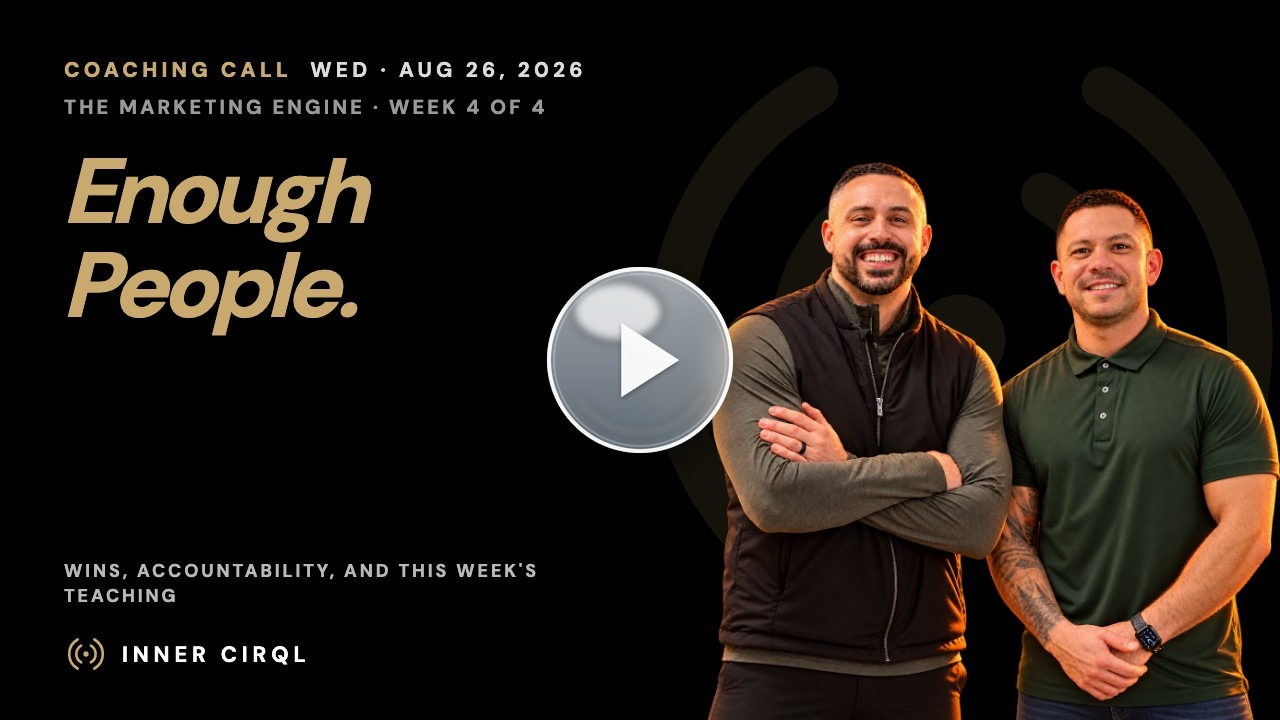
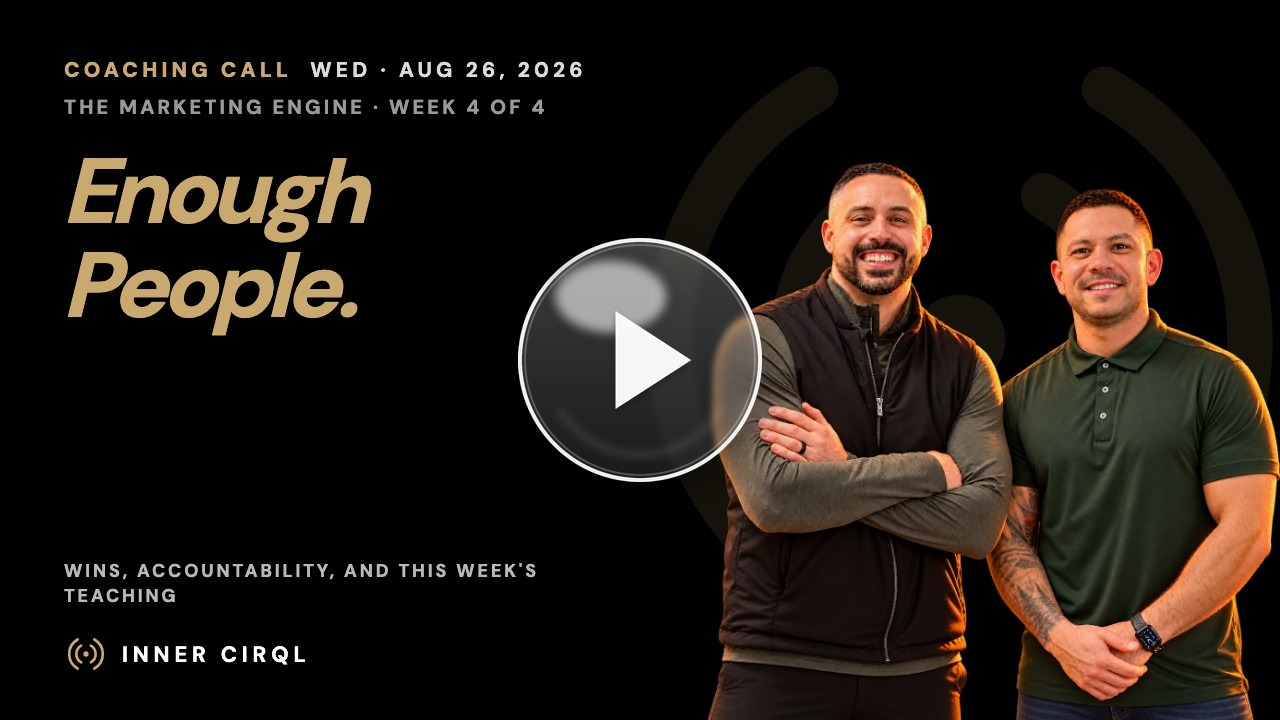
Training: retitle Aug 26 coaching call (The Marketing Engine · Week 4 · Enough People.) + thumbnail

Changed region(s): [[0.4062, 0.3056, 0.5938, 0.6722]]

diff --git a/training/index.html b/training/index.html
@@ -94,6 +94,26 @@ window.LIBRARY = {
   ],
   "items": [
     {
+      "id": "v-2026-08-26",
+      "date": "2026-08-26",
+      "dateLabel": "August 26, 2026",
+      "series": "engine",
+      "week": 4,
+      "name": "Enough People.",
+      "title": "The Marketing Engine · Week 4 · Enough People.",
+      "headline": [
+        "Enough",
+        "People."
+      ],
+      "sub": "The Marketing Engine · Week 4 of 4",
+      "desc": "The Marketing Engine, Week 4: the final week of the series. Wins, accountability, and the week's teaching segment, edited replay.",
+      "href": "https://coach.theinnercirql.com/2026-08-26/",
+      "pdf": null,
+      "slides": null,
+      "embed": "https://www.youtube.com/embed/5wY_vSqi8dg?rel=0&modestbranding=1",
+      "thumb": "/assets/thumbs/aug-26-call.jpg?v=29920148"
+    },
+    {
       "id": "v-2026-08-19",
       "date": "2026-08-19",
       "dateLabel": "August 19, 2026",
@@ -532,26 +552,6 @@ window.LIBRARY = {
       "slides": null,
       "embed": "https://www.youtube.com/embed/uDBoXa4t-Ic?rel=0&modestbranding=1",
       "thumb": "/assets/thumbs/sep-2-call.jpg?v=29920127"
-    },
-    {
-      "id": "v-2026-08-26",
-      "date": "2026-08-26",
-      "dateLabel": "August 26, 2026",
-      "series": "engine",
-      "week": 4,
-      "name": "Enough People.",
-      "title": "The Marketing Engine · Week 4 · Enough People.",
-      "headline": [
-        "Enough",
-        "People."
-      ],
-      "sub": "The Marketing Engine · Week 4 of 4",
-      "desc": "The Marketing Engine, Week 4: the final week of the series. Wins, accountability, and the week's teaching segment, edited replay.",
-      "href": "https://coach.theinnercirql.com/2026-08-26/",
-      "pdf": null,
-      "slides": null,
-      "embed": "https://www.youtube.com/embed/5wY_vSqi8dg?rel=0&modestbranding=1",
-      "thumb": "/assets/thumbs/aug-26-call.jpg?v=29920127"
     },
     {
       "id": "t-become-a-listing-magnet",
